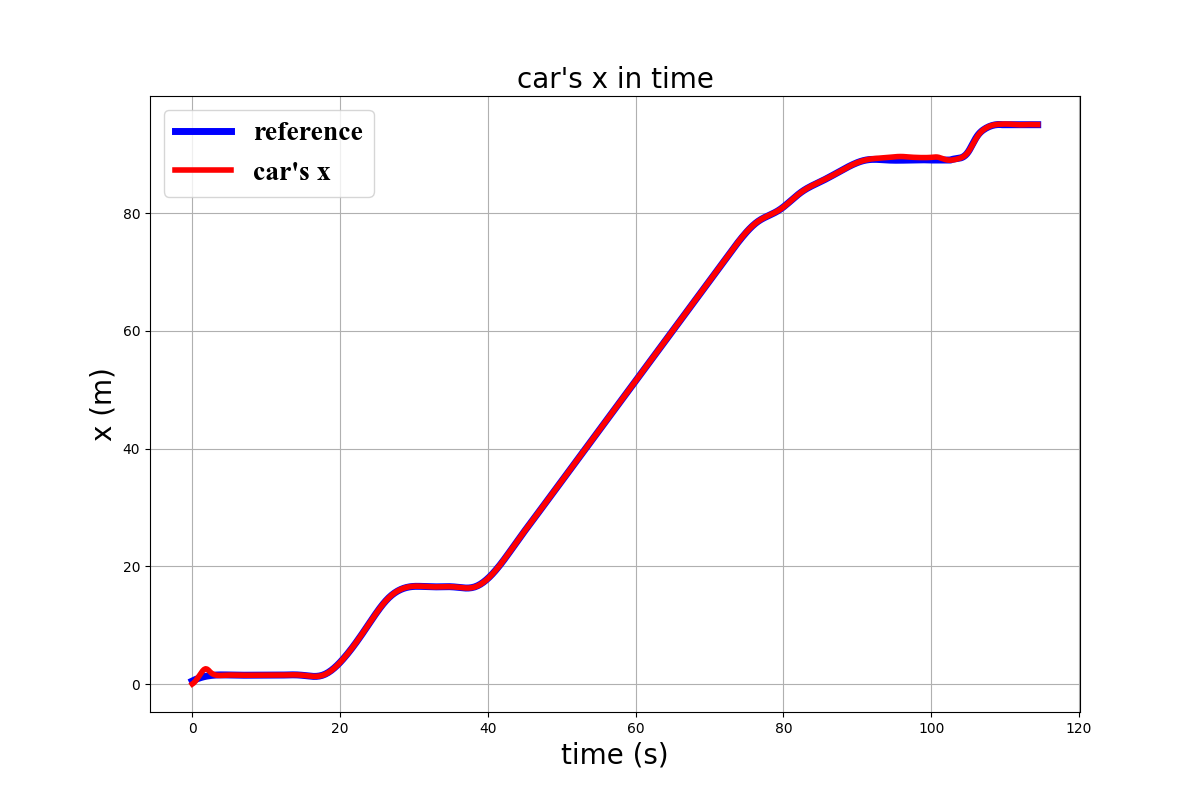
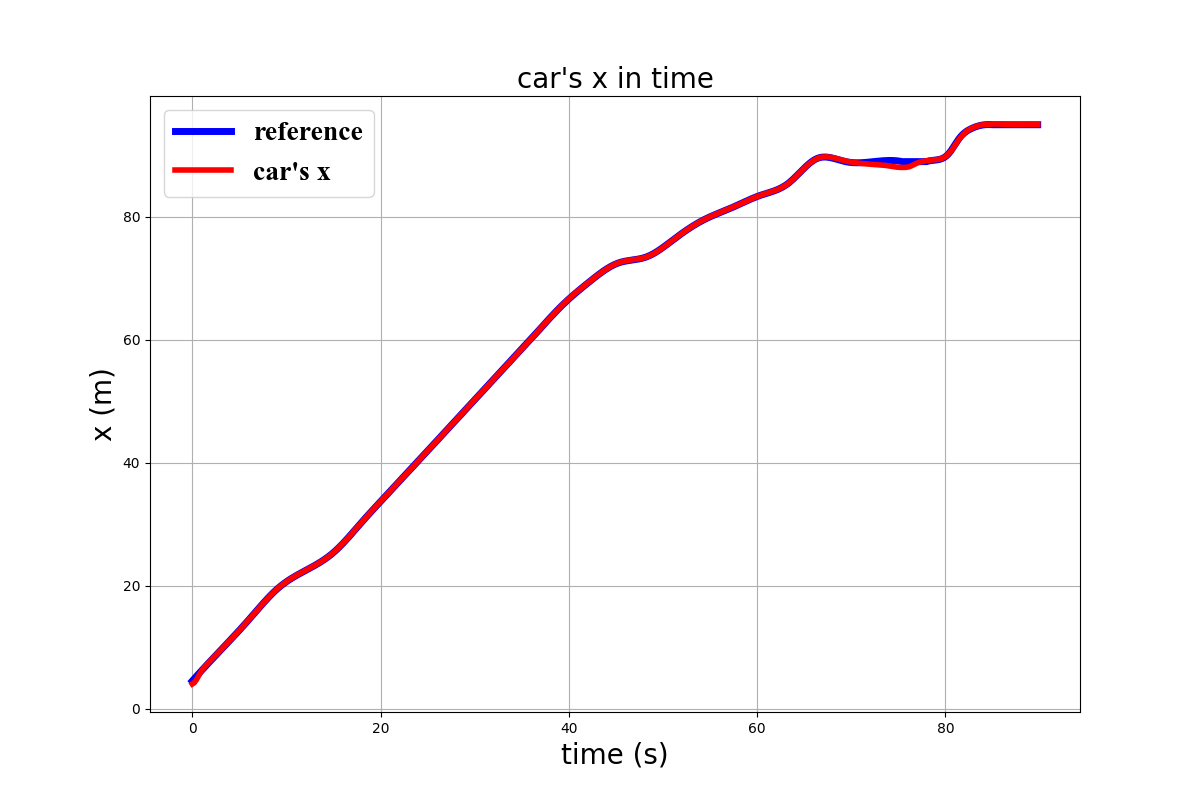
final submission

diff --git a/CAR kinematic model/main_autopark.py b/CAR kinematic model/main_autopark.py
@@ -10,8 +10,8 @@ from utils import angle_of_line, make_square, DataLogger
 
 if __name__ == '__main__':
     parser = argparse.ArgumentParser() # 4,35
-    parser.add_argument('--x_start', type=int, default=80, help='X of start')
-    parser.add_argument('--y_start', type=int, default=30, help='Y of start')
+    parser.add_argument('--x_start', type=int, default=4, help='X of start')
+    parser.add_argument('--y_start', type=int, default=35, help='Y of start')
     parser.add_argument('--psi_start', type=int, default=0, help='psi of start')
     parser.add_argument('--x_end', type=int, default=90, help='X of end')
     parser.add_argument('--y_end', type=int, default=80, help='Y of end')
@@ -86,61 +86,63 @@ if __name__ == '__main__':
     ################################## control ##################################################
     print('driving to destination ...')
     MPC_reset = False
-    for i,point in enumerate(final_path):
-        
-            acc, delta = controller.optimize(my_car, final_path[i:i+MPC_HORIZON])
-            my_car.update_state(my_car.move(acc,  delta))
-            res = env.render(my_car.x, my_car.y, my_car.psi, delta)
-            logger.log(point, my_car, acc, delta)
-            cv2.imshow('environment', res)
-            key = cv2.waitKey(1)
-            if key == ord('s'):
-                cv2.imwrite('res.png', res*255)
+    try:
+        for i,point in enumerate(final_path):
 
-            if my_car.y <= 35: #only live path plan when not near parking lot
-                print('generate obstacles')
-                end, obs = parking1.generate_obstacles(time=i)
-                env = Environment(obs)
-                park_path_planner = ParkPathPlanning(obs)
-                path_planner = PathPlanning(obs)
+                acc, delta = controller.optimize(my_car, final_path[i:i+MPC_HORIZON])
+                my_car.update_state(my_car.move(acc,  delta))
+                res = env.render(my_car.x, my_car.y, my_car.psi, delta)
+                logger.log(point, my_car, acc, delta)
+                cv2.imshow('environment', res)
+                key = cv2.waitKey(1)
+                if key == ord('s'):
+                    cv2.imwrite('res.png', res*255)
 
-                try:
-                    print('planning park scenario ...')
-                    new_end, park_path, ensure_path1, ensure_path2 = park_path_planner.generate_park_scenario(round(my_car.x),
-                                                                                                              round(my_car.y),
-                                                                                                              int(end[0]),
-                                                                                                              int(end[1]))
-                    print('routing to destination ...')
-                    path = path_planner.plan_path(round(my_car.x), round(my_car.y), int(new_end[0]), int(new_end[1]))
-                    path = np.vstack([path, ensure_path1])
+                if my_car.y <= 0: #only live path plan when not near parking lot
+                    print('generate obstacles')
+                    end, obs = parking1.generate_obstacles(time=i)
+                    env = Environment(obs)
+                    park_path_planner = ParkPathPlanning(obs)
+                    path_planner = PathPlanning(obs)
 
-                    print('interpolating ...')
-                    interpolated_path = interpolate_path(path, sample_rate=5)
-                    interpolated_park_path = interpolate_path(park_path, sample_rate=2)
-                    interpolated_park_path = np.vstack([ensure_path1[::-1], interpolated_park_path, ensure_path2[::-1]])
+                    try:
+                        print('planning park scenario ...')
+                        new_end, park_path, ensure_path1, ensure_path2 = park_path_planner.generate_park_scenario(round(my_car.x),
+                                                                                                                  round(my_car.y),
+                                                                                                                  int(end[0]),
+                                                                                                                  int(end[1]))
+                        print('routing to destination ...')
+                        path = path_planner.plan_path(round(my_car.x), round(my_car.y), int(new_end[0]), int(new_end[1]))
+                        path = np.vstack([path, ensure_path1])
 
+                        print('interpolating ...')
+                        interpolated_path = interpolate_path(path, sample_rate=5)
+                        interpolated_park_path = interpolate_path(park_path, sample_rate=2)
+                        interpolated_park_path = np.vstack([ensure_path1[::-1], interpolated_park_path, ensure_path2[::-1]])
+
+                        env.draw_path(interpolated_path)
+                        env.draw_path(interpolated_park_path)
+
+                        final_path = np.vstack([interpolated_path, interpolated_park_path, ensure_path2])
+                    except Exception as e:
+                        env.draw_path(interpolated_path)
+                        env.draw_path(interpolated_park_path)
+                        print(e)
+                else: #still draw current path
+                    if not MPC_reset:
+                        controller = MPC_Controller()
+                    MPC_reset = True
                     env.draw_path(interpolated_path)
                     env.draw_path(interpolated_park_path)
+                    # sleep(1)
+    except Exception as e2:
+        # zeroing car steer
+        res = env.render(my_car.x, my_car.y, my_car.psi, 0)
+        logger.save_data()
+        cv2.imshow('environment', res)
+        key = cv2.waitKey()
+        #############################################################################################
 
-                    final_path = np.vstack([interpolated_path, interpolated_park_path, ensure_path2])
-                except Exception as e:
-                    env.draw_path(interpolated_path)
-                    env.draw_path(interpolated_park_path)
-                    print(e)
-            else: #still draw current path
-                if not MPC_reset:
-                    controller = MPC_Controller()
-                MPC_reset = True
-                env.draw_path(interpolated_path)
-                env.draw_path(interpolated_park_path)
-                sleep(1)
+        cv2.destroyAllWindows()
 
-    # zeroing car steer
-    res = env.render(my_car.x, my_car.y, my_car.psi, 0)
     logger.save_data()
-    cv2.imshow('environment', res)
-    key = cv2.waitKey()
-    #############################################################################################
-
-    cv2.destroyAllWindows()
-

diff --git a/CAR kinematic model/environment.py b/CAR kinematic model/environment.py
@@ -132,7 +132,7 @@ class Parking1:
                 elif self.car_type[i - 1] == "right":
                     obstacle = self.car_obstacle_right + self.cars[i]
                 self.obs = np.append(self.obs, obstacle)
-        start = 108
+        start = 60
         start_y = 20
         vert_offset = 5
         front_offset = 30
